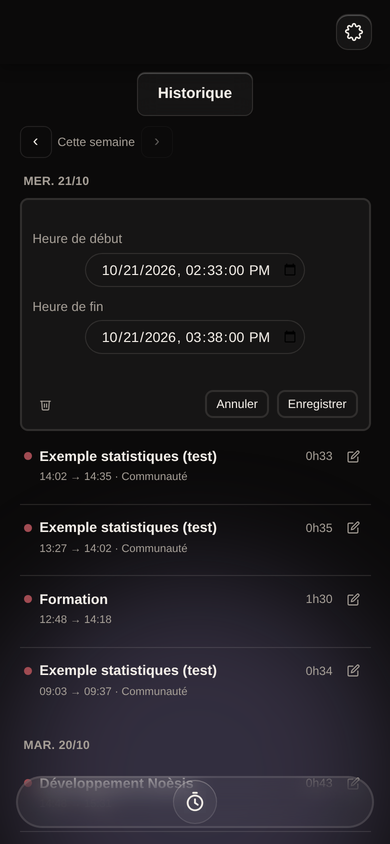
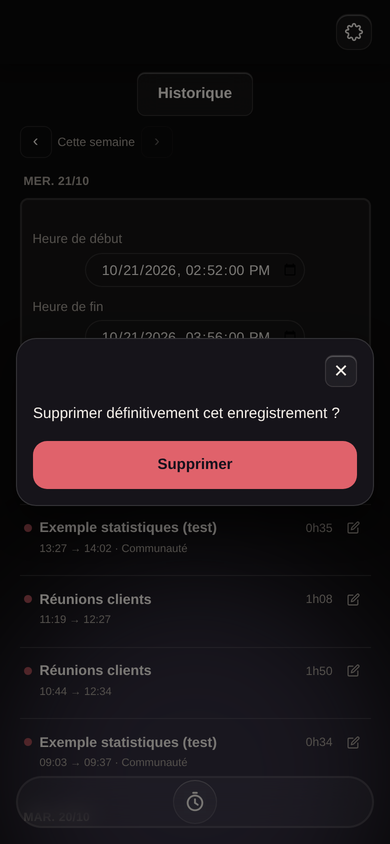
Captures : liste du manquant, capture de la confirmation de suppression, pop-up de la barre
Claude-Session: https://claude.ai/code/session_01XQNV3aMUCMd9beqvUoPMuf

diff --git a/docs/fonctionnalites/captures-chantiers.md b/docs/fonctionnalites/captures-chantiers.md
@@ -24,6 +24,12 @@ Un « élément » = on ouvre l'écran, on déclenche l'élément, on capture. S
 - Sur mesure, sans rien modifier : `python3 scripts/capture-chantier.py --element "Nom lisible" --depuis chrono --etapes '[{"clic":"#chronoHistoryHeader"},{"attendre":800}]'` (`--depuis` = chrono, objectifs (modules seuls), communaute, reglages ou tous (app normale, écran d accueil) : écran de départ ; les étapes mènent à l'élément).
 - **Pour en demander un** : écrire au coordinateur « capture de l'élément <description> (écran, geste pour l'ouvrir) » ; il l'ajoute à `ELEMENTS` dans `scripts/capture-pages.py` (ou le lance en sur mesure) et publie l'image.
 
+### Manquant (non capturé)
+
+- Chrono : liste des activités avec pôle/secteur de la fenêtre « Pôle ou secteur » du Chrono en marche (aucun pôle dans les données de test), feuille de temps détaillée, écran Activité d'un partage.
+- Objectifs : Page 3 Calendrier de la période (créneau d'une tâche), panneau « gérer mes catégories », proposition IA / Modifications proposées, achat Expansion (compte réel Stripe), fenêtre Activité (Tâches/Discussion) : à ajouter dans `OBJECTIFS` dès qu'un parcours stable existe.
+- Communauté : sondage (création, vote), fil d'une activité partagée. Réglages : chaque sous-écran légal (conditions, politique), connexion IA. Trade : données réelles du courtier, vérification TOTP d'un vrai compte.
+
 ### Limites connues
 
 - Écrans qui exigent un compte réel (paiement Expansion, TOTP d'un vrai compte, réponses IA, notifications push) : non capturés, listés dans « Manquant » plus bas.
